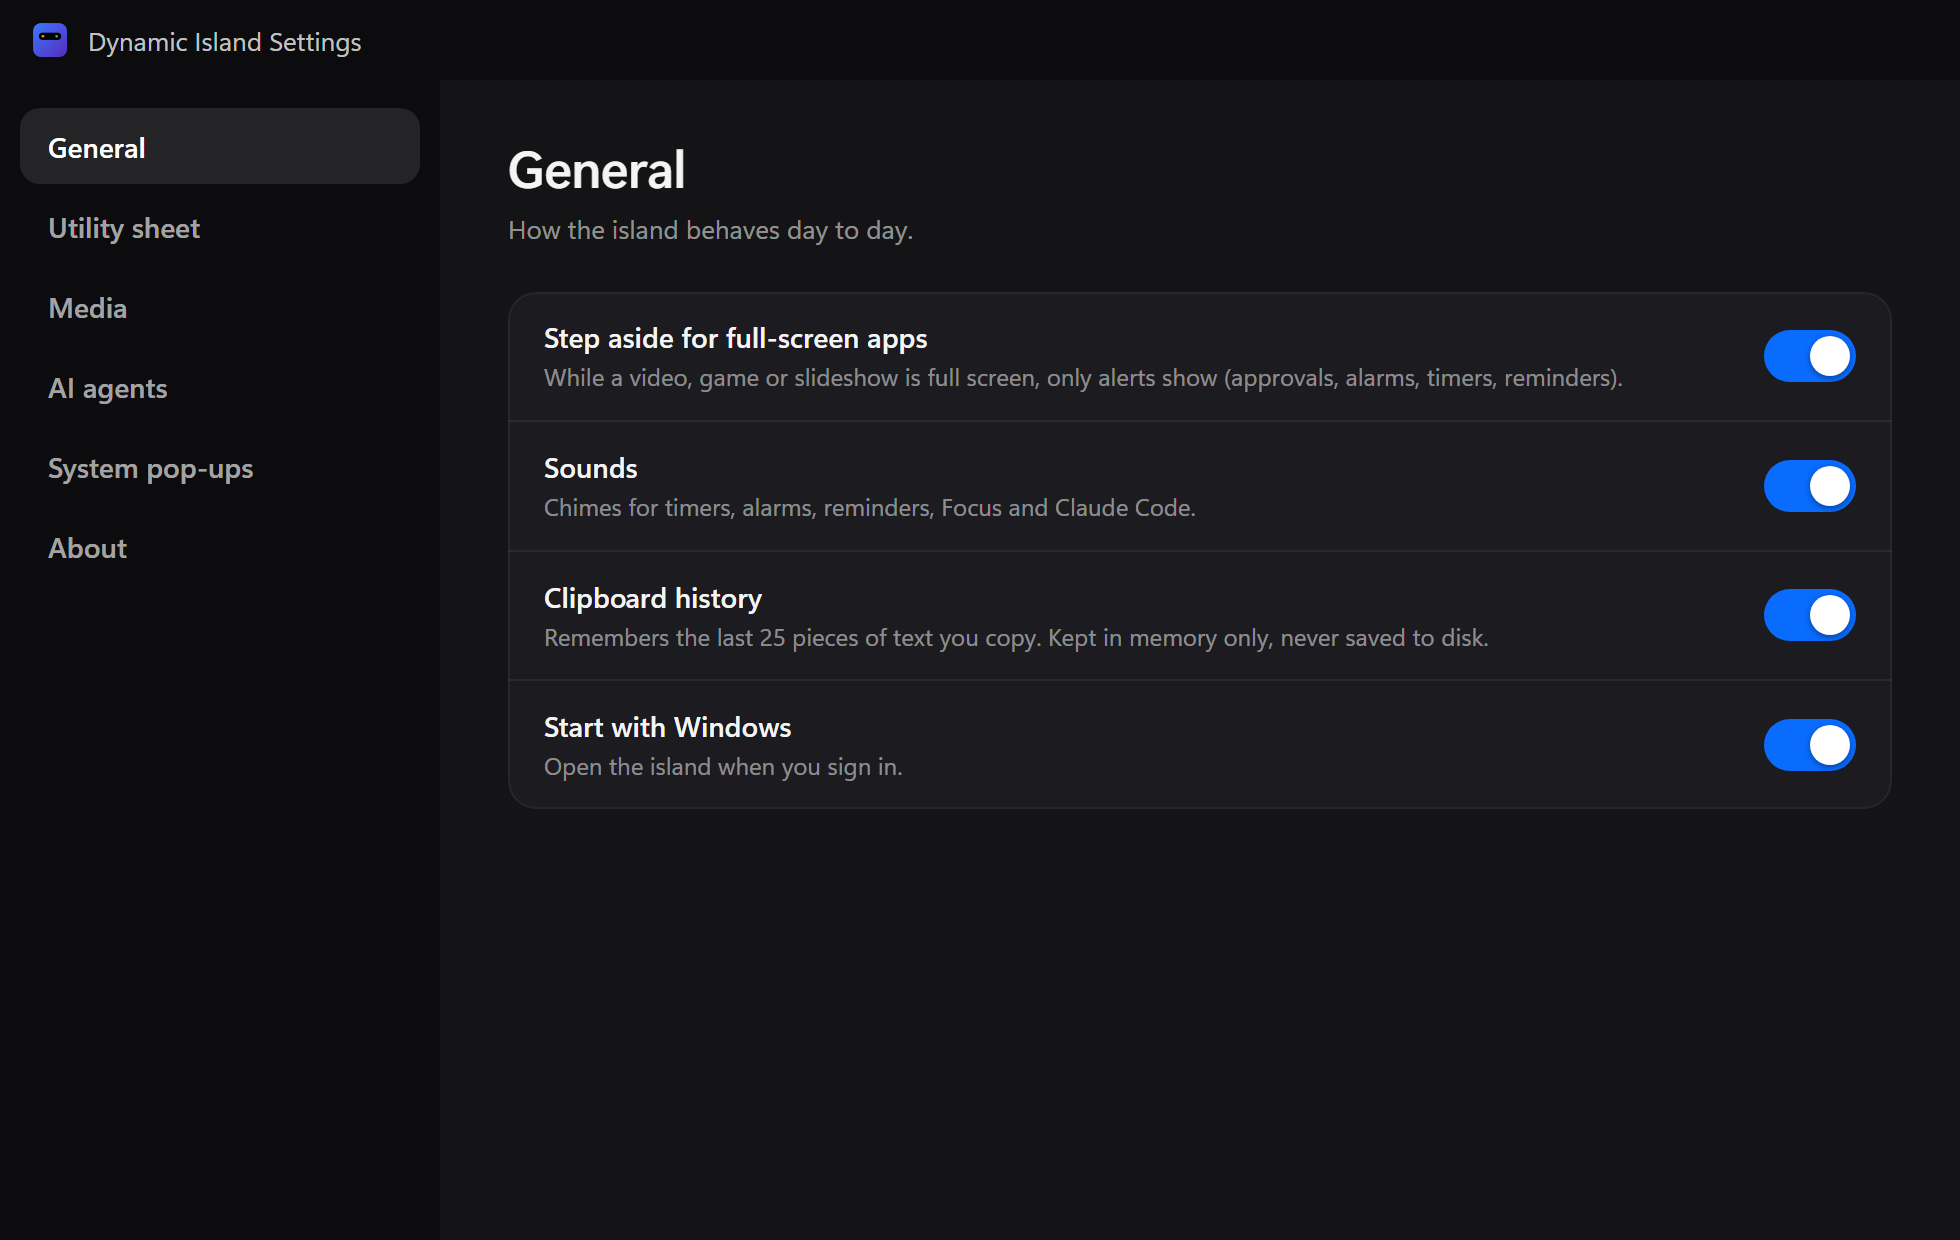
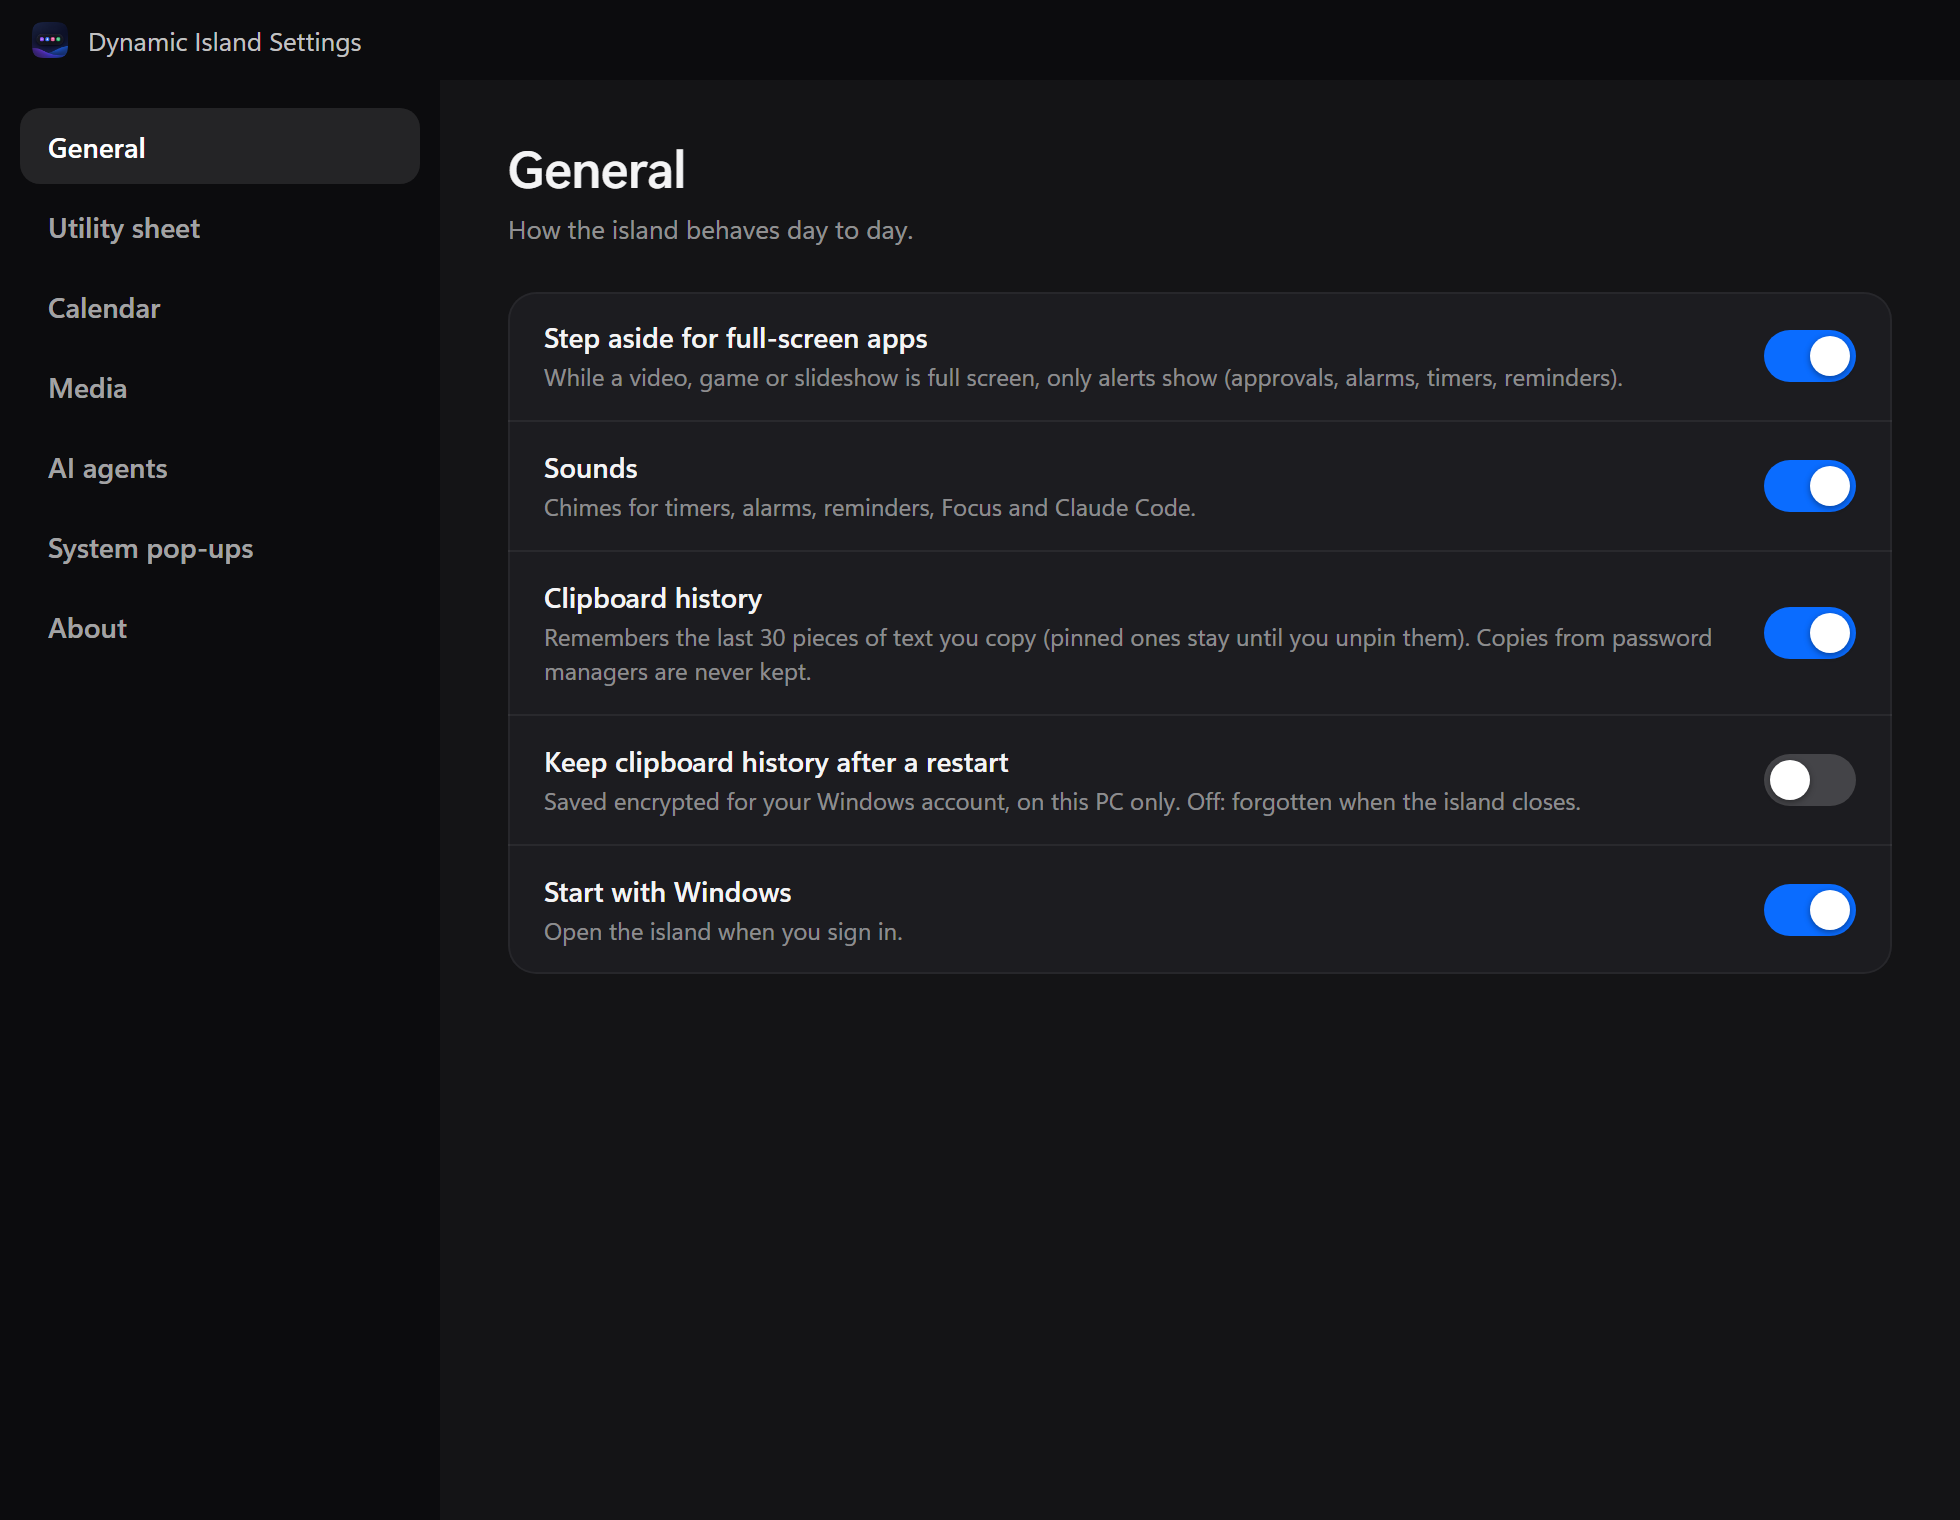
README: fresh screenshots of every screen, new sections for lyrics, agent panel, two at once, calendar, calls

diff --git a/README.md b/README.md
@@ -33,17 +33,30 @@ steals your keyboard.
 
 ## Music and video
 
+<img src="docs/images/lyrics.png" width="760" alt="The player: big cover on the left, synced lyrics and controls on the right">
+
+**Anything Windows knows is playing**: Spotify, Apple Music or YouTube in a browser, and more. A big cover, sound bars
+that move with the actual audio, drag to seek, switching between apps, and **lyrics that scroll with the song**
+(from LRCLIB, with lyrics.ovh and your own Musixmatch key as backups). When a site sends no cover, the island finds it
+(iTunes, Deezer, MusicBrainz) or shows the service's logo: Netflix, Prime Video, Twitch... VLC shows what it's playing.
+
 <table>
 <tr>
-<td width="50%"><img src="docs/images/player.png" alt="Expanded music player"></td>
-<td width="50%"><img src="docs/images/compact.png" alt="Compact music island with a timer next to it"><br><br>
-<b>Anything Windows knows is playing</b>: Spotify, YouTube in a browser, VLC and more.<br><br>
-Real cover art, sound bars that move with the actual audio, play / pause / next / previous, drag to seek, and
-switching between apps. A timer gets its own small island next to the music. Right-click to hide.</td>
+<td width="50%"><img src="docs/images/compact.png" alt="Music island with a timer in its own small island"></td>
+<td width="50%"><img src="docs/images/twothings.png" alt="An agent working, with the music in a small island beside it"></td>
+</tr>
+<tr>
+<td><b>Two things at once</b>: a timer gets its own small island next to the music.</td>
+<td>While an agent works, the music moves to the small island.</td>
 </tr>
 </table>
 
 ## AI agents, right in the island
+
+<img src="docs/images/agentlive.png" width="760" alt="Agent panel: big timer, the change being made, and Read / Edit / Test / Done">
+
+Claude Code, GitHub Copilot CLI, Gemini CLI, Cursor and Codex connect from Settings in one click, no Node.js needed.
+The panel shows how long it's been working, the code change it's making right now, and how far along it is.
 
 <table>
 <tr>
@@ -56,7 +69,6 @@ switching between apps. A timer gets its own small island next to the music. Rig
 </tr>
 </table>
 
-<img src="docs/images/agent.png" width="49%" alt="Claude Code working, shown in the compact island">
 
 ### Any other agent, script or build tool
 
@@ -78,6 +90,14 @@ Your week shows in the sheet, and a heads-up drops down a few minutes before eac
 Meet, Teams and Zoom. Reminders can sync both ways with **Google Tasks** or **Microsoft To Do**, so they reach your phone.
 Sign-in happens in your own browser; tokens are encrypted with Windows' data protection and stay on your PC.
 
+<table>
+<tr>
+<td width="50%"><img src="docs/images/calendar.png" alt="Month view with the day's events and a Join button"></td>
+<td width="50%"><img src="docs/images/event.png" alt="Heads-up before a meeting with Join Teams"><br><br>
+<img src="docs/images/calnew.png" alt="Adding an event with any start and end time"></td>
+</tr>
+</table>
+
 <details>
 <summary><b>Calendar sign-in: app IDs (for whoever builds the installer)</b></summary>
 <br>
@@ -93,6 +113,21 @@ enter your own in Settings › Calendar › Advanced. Calendar links work withou
   API permissions: Calendars.Read, Tasks.ReadWrite, User.Read, offline_access. Copy the Application (client) ID.
 
 </details>
+
+## Calls and privacy
+
+<table>
+<tr>
+<td width="50%"><img src="docs/images/call.png" alt="Call timer with camera on and a mute button"><br><br>
+<img src="docs/images/sheetvol.png" alt="Volume pop-up beside an open panel"></td>
+<td width="50%"><img src="docs/images/callmuted.png" alt="Call panel with the microphone muted"></td>
+</tr>
+<tr>
+<td>A <b>call timer</b> while any app uses the microphone, and dots for microphone, camera and screen capture.
+Pop-ups show beside an open panel instead of covering it.</td>
+<td><b>One key mutes your microphone in every app</b> (Ctrl+Alt+M, or another you pick).</td>
+</tr>
+</table>
 
 ## Timers, alarms and focus
 
@@ -134,7 +169,8 @@ enter your own in Settings › Calendar › Advanced. Calendar links work withou
 </tr>
 </table>
 
-Also: **clipboard history**, a **quick note**, and a **stopwatch**.
+Also: **clipboard history** (kept after a restart, encrypted, with pins; password-manager copies are never kept), a
+**quick note**, and a **stopwatch**.
 
 ## Settings
 
@@ -248,6 +284,7 @@ from `scripts/make-icons.ps1`.
 - HEIC pictures need the free "HEIF Image Extensions" from the Microsoft Store; WEBP and HEIC can't be written.
 - Brightness only works for a laptop's built-in screen.
 - Not built yet: Windows notifications in the island, Bluetooth / Wi-Fi pop-ups.
+- Brand logos come from [Simple Icons](https://simpleicons.org) (CC0); names and logos belong to their owners.
 
 ## License
 
